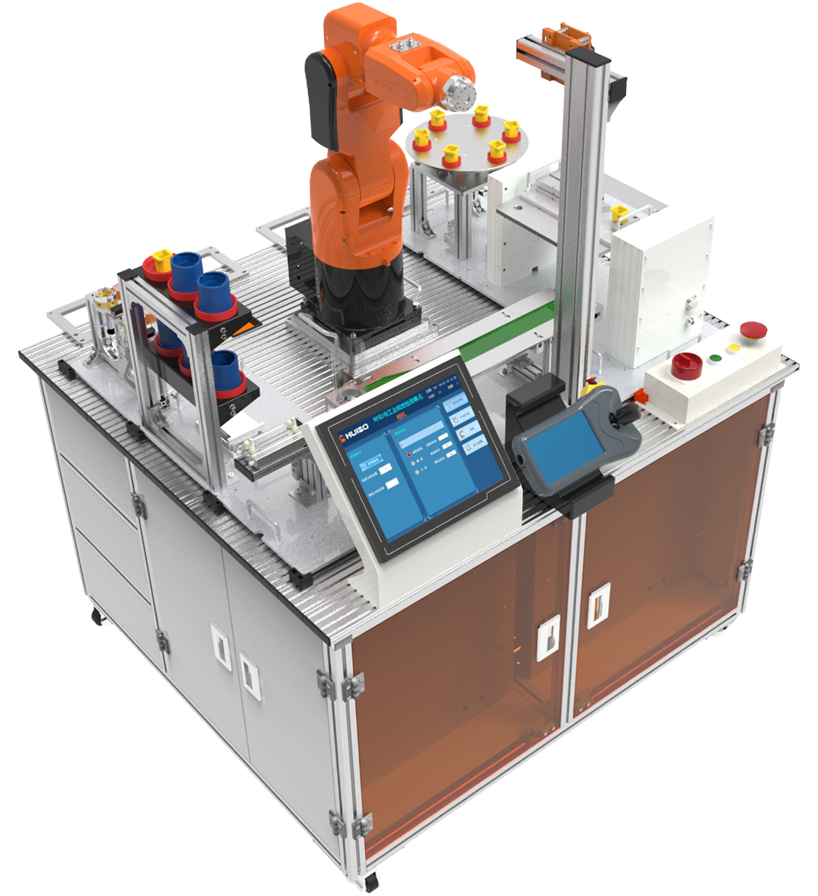
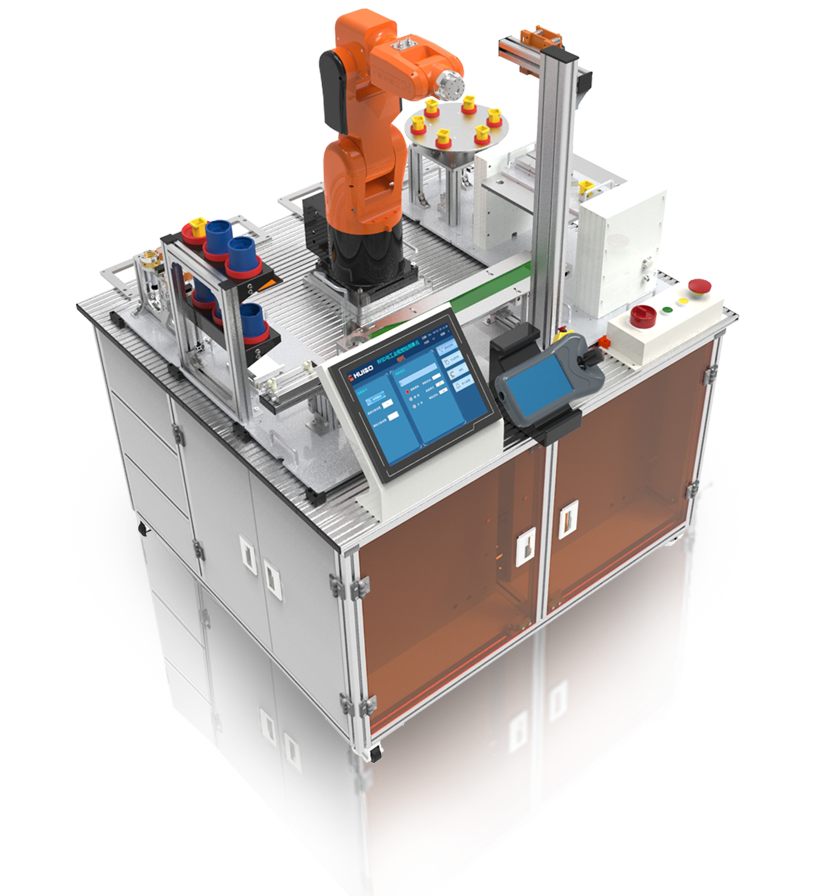
feat:(views-dashboard): 1# 首页调整； 2# 图片调整；

diff --git a/src/views/dashboard/index.vue b/src/views/dashboard/index.vue
@@ -6,7 +6,22 @@
     <el-row :gutter="5">
         <el-card class="box-card">
           <div slot="header" class="text-c">
-            <h3><b>{{titleName}}</b></h3>
+            <div class="dashBoardContainer">
+             <span></span>
+              <div class="" v-show="!isMobile" v-for="list in 3" :key="list">
+                  <div class="TriangleLeft">{{list.name}}</div>
+              </div>
+              <h2 v-for="span in spanList" :key="span">
+                <span><b>{{span.spanText}}</b></span>
+              </h2>
+              <div v-for="list in 3" :key="list" v-show="!isMobile">
+                <div class="TriangleRight">{{list.name}}</div>
+              </div>
+            <div class="xFontLeft" v-show="!isMobile"></div>
+            <div class="xFontRight" v-show="!isMobile"></div>
+            <div class="line"></div>
+            </div>
+            <div class="englishFont">Application Programming of "1+X" Industrial Robot</div>
           </div>
         <el-col :xs="24" :sm="12" :md="12" :lg="12" :xl="12" :class="isMobile?'h-auto':'h-num mb-10'">
               <img :src="machineImgRight" alt="">
@@ -33,7 +48,23 @@ export default {
       machineImg,
       machineImgRight,
       titleName: '“1+X”工业机器人应用编程',
-      copyRight: 'Copyright © 2016-2020 江苏汇博机器人技术股份有限公司'
+      copyRight: 'Copyright © 2016-2020 江苏汇博机器人技术股份有限公司',
+      spanList: [
+        { spanText: '“' },
+        { spanText: '1' },
+        { spanText: '+' },
+        { spanText: 'X' },
+        { spanText: '”' },
+        { spanText: '工' },
+        { spanText: '业' },
+        { spanText: '机' },
+        { spanText: '器' },
+        { spanText: '人' },
+        { spanText: '应' },
+        { spanText: '用' },
+        { spanText: '编' },
+        { spanText: '程' }
+      ]
     }
   },
   name: 'Dashboard',
@@ -45,6 +76,10 @@ export default {
     isMobile() {
       return this.$store.state.app.isMobile
     }
+  },
+  mounted() {
+  },
+  methods: {
   }
 }
 </script>
@@ -71,22 +106,192 @@ export default {
   margin-top: 50px;
 }
 .el-card{
-  background: #e3f3ff;
+  background: transparent;
   box-shadow: none;
+  border:none;
+  /deep/ .el-card__header{
+    border-bottom:none;
+  }
 }
-.p-5,.p-10{
-  background: #fff;
+.p-10{
+  background: linear-gradient(#fff,#fff, #aaa);
  }
-.h-num,.h-auto{
-  height: calc(100vh - 210px);
+.h-num,.h-auto,.h-num1{
+  height: calc(100vh - 245px);
   display: flex;
   align-items: center;
   justify-content:center;
   img {
-    width: 55%;
+    width: 65%;
+    animation: fadeIn 0.8s;
   }
 }
 .h-auto{
-  height: 37vh;
+  img {
+    width: 55%;
+  }
+  height: 33vh;
+}
+// 英文标题
+.englishFont{
+  color: #aaa;
+  font-size: 20px;
+  animation: fadeIn 0.4s;
+}
+// 叉符
+.xFontLeft,.xFontRight{
+  width: 20%;
+  height: 4px;
+  border-top:0.4em #3970da dashed;
+  transform: rotate(35deg);
+  opacity: 0.05;
+  position: absolute;
+  margin: auto;
+  top:0;
+  left:0;
+  bottom:0;
+  right: 0;
+}
+.xFontRight{
+  transform: rotate(-35deg);
+}
+// 动态三角
+.TriangleLeft,.TriangleRight{
+  width: 0;
+  height: 0;
+  border-top:6px solid transparent;
+  border-bottom:6px solid transparent;
+  border-left:12px solid #888;
+  margin: 5px 1px 0 1px;
+}
+.TriangleRight{
+  border-top:6px solid transparent;
+  border-bottom:6px solid transparent;
+  border-left:none;
+  border-right:12px solid #888;
+}
+.dashBoardContainer :nth-child(2){
+  animation: fadeIns 0.5s infinite;
+}
+.dashBoardContainer :nth-child(3){
+  animation: fadeIns 0.7s infinite;
+}
+.dashBoardContainer :nth-child(4){
+  animation: fadeIns 0.9s infinite;
+  margin-right: 20px;
+}
+.dashBoardContainer :nth-last-child(4){
+  animation: fadeIns 0.8s infinite;
+}
+.dashBoardContainer :nth-last-child(5){
+  animation: fadeIns 0.7s infinite;
+}
+.dashBoardContainer :nth-last-child(6){
+  animation: fadeIns 0.6s infinite;
+  margin-left: 20px;
+}
+@keyframes fadeIns {
+  0% {
+    transform: scale(0.4);
+    opacity: 0.3;
+  }
+  50% {
+    transform: scale(1);
+    opacity: 1;
+  }
+  100% {
+    transform: scale(0.4);
+    opacity: 0.3;
+  }
+}
+// 动态文字
+.dashBoardContainer {
+  display: flex;
+  justify-content: center;
+  align-items: center;
+  color: #666;
+}
+.dashBoardContainer h2{
+  position: relative;
+  span{
+    display: inline-block;
+  }
+}
+.dashBoardContainer h2 span{
+  display: inline-block;
+  opacity: 0;
+  text-transform: uppercase;
+  animation-iteration-count: 1;
+  animation: fadeIn forwards 0.8s ease-out;
+  &:nth-child(1) {
+  animation-delay: 0.8s;
+   }
+  &:nth-child(2) {
+    animation-delay: 0.7s;
+  }
+  &:nth-child(3) {
+    animation-delay: 0.6s;
+  }
+  &:nth-child(4) {
+    animation-delay: 0.5s;
+  }
+  &:nth-child(5) {
+    animation-delay: 0.4s;
+  }
+  &:nth-child(6) {
+    animation-delay: 0.4s;
+  }
+  &:nth-child(7) {
+    animation-delay: 0.5s;
+  }
+  &:nth-child(8) {
+    animation-delay: 0.6s;
+  }
+  &:nth-child(9) {
+    animation-delay: 0.7s;
+  }
+  &:nth-child(10) {
+    animation-delay: 0.8s;
+  }
+  &:nth-child(11) {
+    animation-delay: 0.7s;
+  }
+  &:nth-child(12) {
+    animation-delay: 0.6s;
+  }
+  &:nth-child(13) {
+    animation-delay: 0.5s;
+  }
+  &:nth-child(14) {
+    animation-delay: 0.4s;
+  }
+}
+
+@keyframes fadeIn {
+  0% {
+    transform: scale(0.2);
+    opacity: 0;
+  }
+  100% {
+    transform: scale(1);
+    opacity: 1;
+  }
+}
+  .line{
+    width: 400px;
+    height: 4px;
+    position: absolute;
+    top:70px;
+    left:50%;
+    margin-left:-200px;
+    background-image: linear-gradient(right, rgba(0, 0, 0, 0) 20%, rgba(230, 230, 230, 0.9) 50%, rgba(0, 0, 0, 0) 90%);
+    animation:myfirst 2s ease-out;
+    opacity: 0;
+  }
+@keyframes myfirst{
+  0% {opacity: 0;}
+  10%{left:30%;opacity: 0;}
+  50%{left:60%;opacity: 0.8;}
+  100%{left:70%;opacity: 0;}
 }
 </style>

diff --git a/src/views/dataApplication/salesStatistics/component/statisticsStateChart.vue b/src/views/dataApplication/salesStatistics/component/statisticsStateChart.vue
@@ -85,19 +85,21 @@ export default {
   mounted() {
     this.initChart()
     this.doResizeChart()
-    if (this.$store.state.app.isMobile) {
-      this.setMobileOption() // 更新手机端显示
-    }
   },
   created() {
+    // if (document.body.clientWidth < 800) {
+    //   this.setMobileOption()
+    // } else {
+    //   this.setPcOption()
+    // }
   },
   computed: {
     isMobile() {
-      if (this.$store.state.app.isMobile) {
-        this.setMobileOption()
-      } else {
-        // this.setPcOption()
-      }
+      // if (this.$store.state.app.isMobile) {
+      //   this.setMobileOption()
+      // } else {
+      //   this.setPcOption()
+      // }
       return this.$store.state.app.isMobile
     }
   },
@@ -128,18 +130,18 @@ export default {
       this.chart.dispose()
       this.chart = null
     },
-    setMobileOption() { // 更新手机端显示
-      this.options.xAxis[0].axisLabel.rotate = 45
-      this.options.xAxis[0].axisLabel.margin = 5
-      this.options.xAxis[0].axisLabel.textStyle.fontSize = 9
-      this.chart.setOption(this.options)
-    },
-    setPcOption() { // 更新pc端显示
-      this.options.xAxis[0].axisLabel.rotate = 0
-      this.options.xAxis[0].axisLabel.margin = 10
-      this.options.xAxis[0].axisLabel.textStyle.fontSize = 12
-      this.chart.setOption(this.options)
-    }
+    // setMobileOption() { // 更新手机端显示
+    //   this.options.xAxis[0].axisLabel.rotate = 45
+    //   this.options.xAxis[0].axisLabel.margin = 5
+    //   this.options.xAxis[0].axisLabel.textStyle.fontSize = 9
+    //   this.chart.setOption(this.options)
+    // },
+    // setPcOption() { // 更新pc端显示
+    //   this.options.xAxis[0].axisLabel.rotate = 0
+    //   this.options.xAxis[0].axisLabel.margin = 10
+    //   this.options.xAxis[0].axisLabel.textStyle.fontSize = 12
+    //   this.chart.setOption(this.options)
+    // }
   }
 }
 </script>

diff --git a/src/views/dataApplication/onlineData/index.vue b/src/views/dataApplication/onlineData/index.vue
@@ -437,12 +437,11 @@ export default {
     }
   }
   .sparkGreen,.sparkGray{
-    width: 15px;
-    height: 15px;
+    width: 18px;
+    height: 18px;
     background: #54d51c;
     display: inline-block;
     border-radius: 20px;
-    margin-top: 2px;
   }
   .sparkGray{
     background: #898989;

diff --git a/src/views/dataApplication/salesStatistics/statisticsState.vue b/src/views/dataApplication/salesStatistics/statisticsState.vue
@@ -26,6 +26,12 @@ export default {
     statisticsStateChart,
     statisticsStateChartByYear
   },
+  computed: {
+    // 是否为手机
+    isMobile() {
+      return this.$store.state.app.isMobile
+    }
+  },
   data: function () {
     return {
     }
